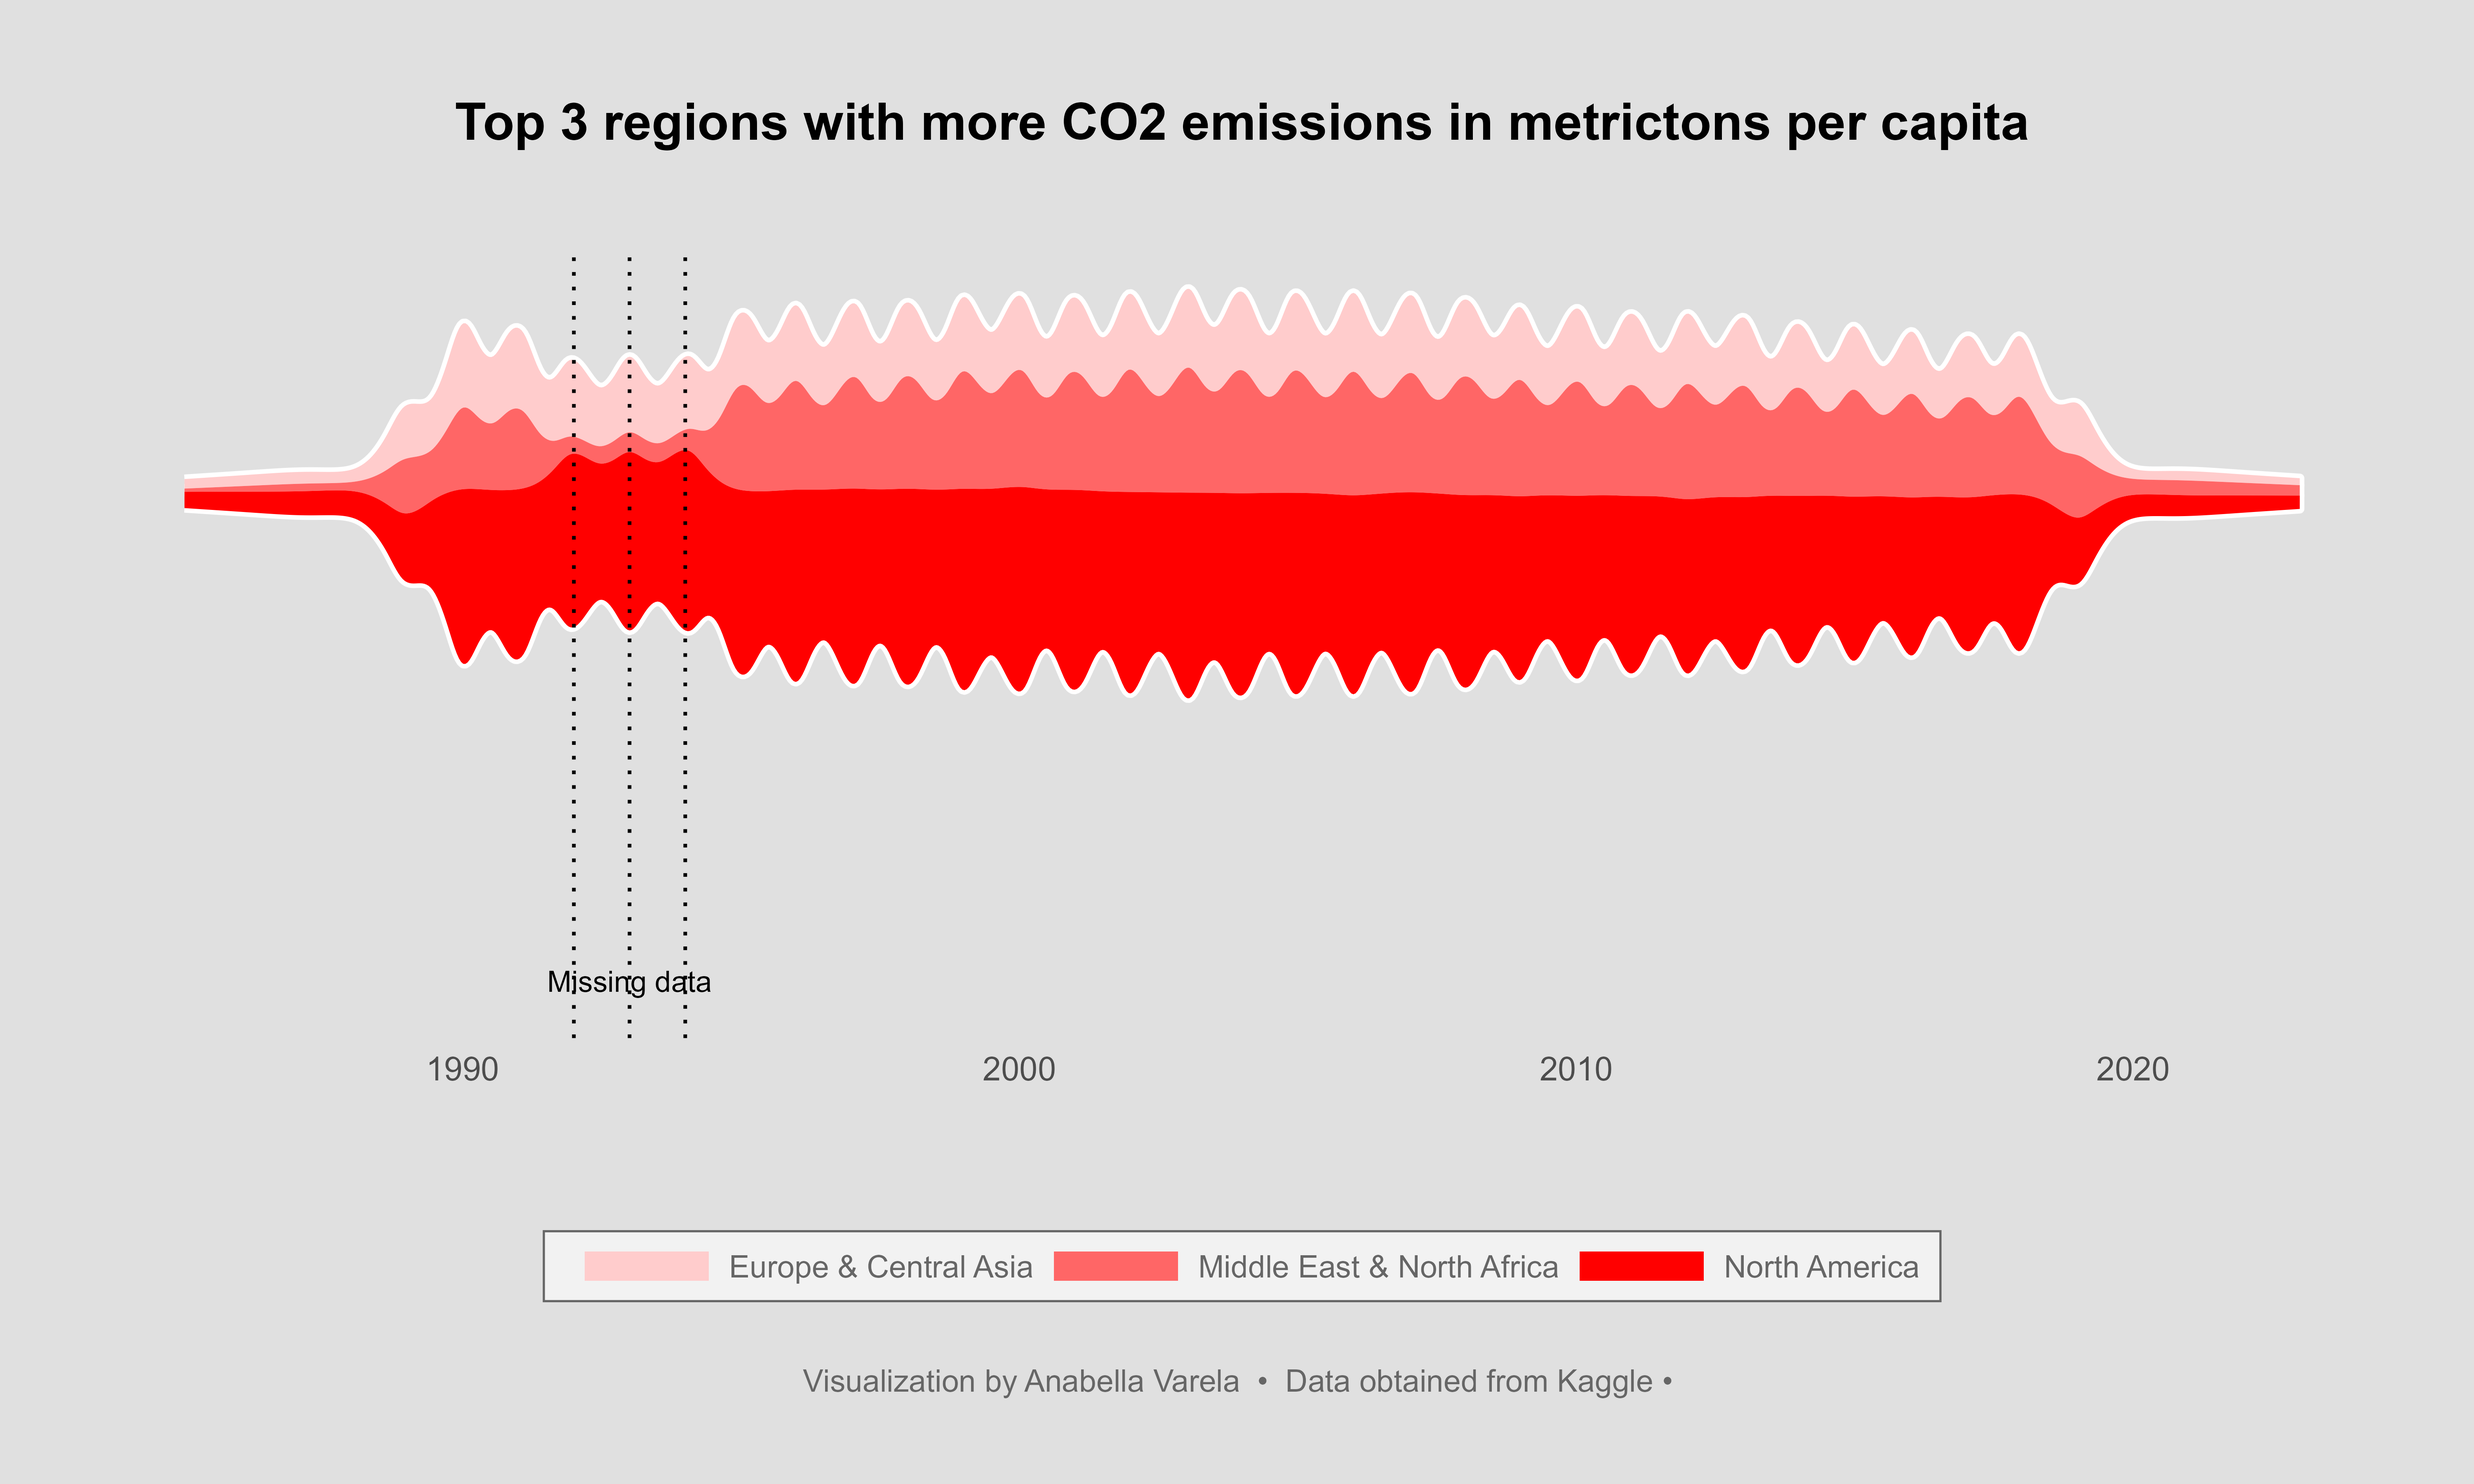
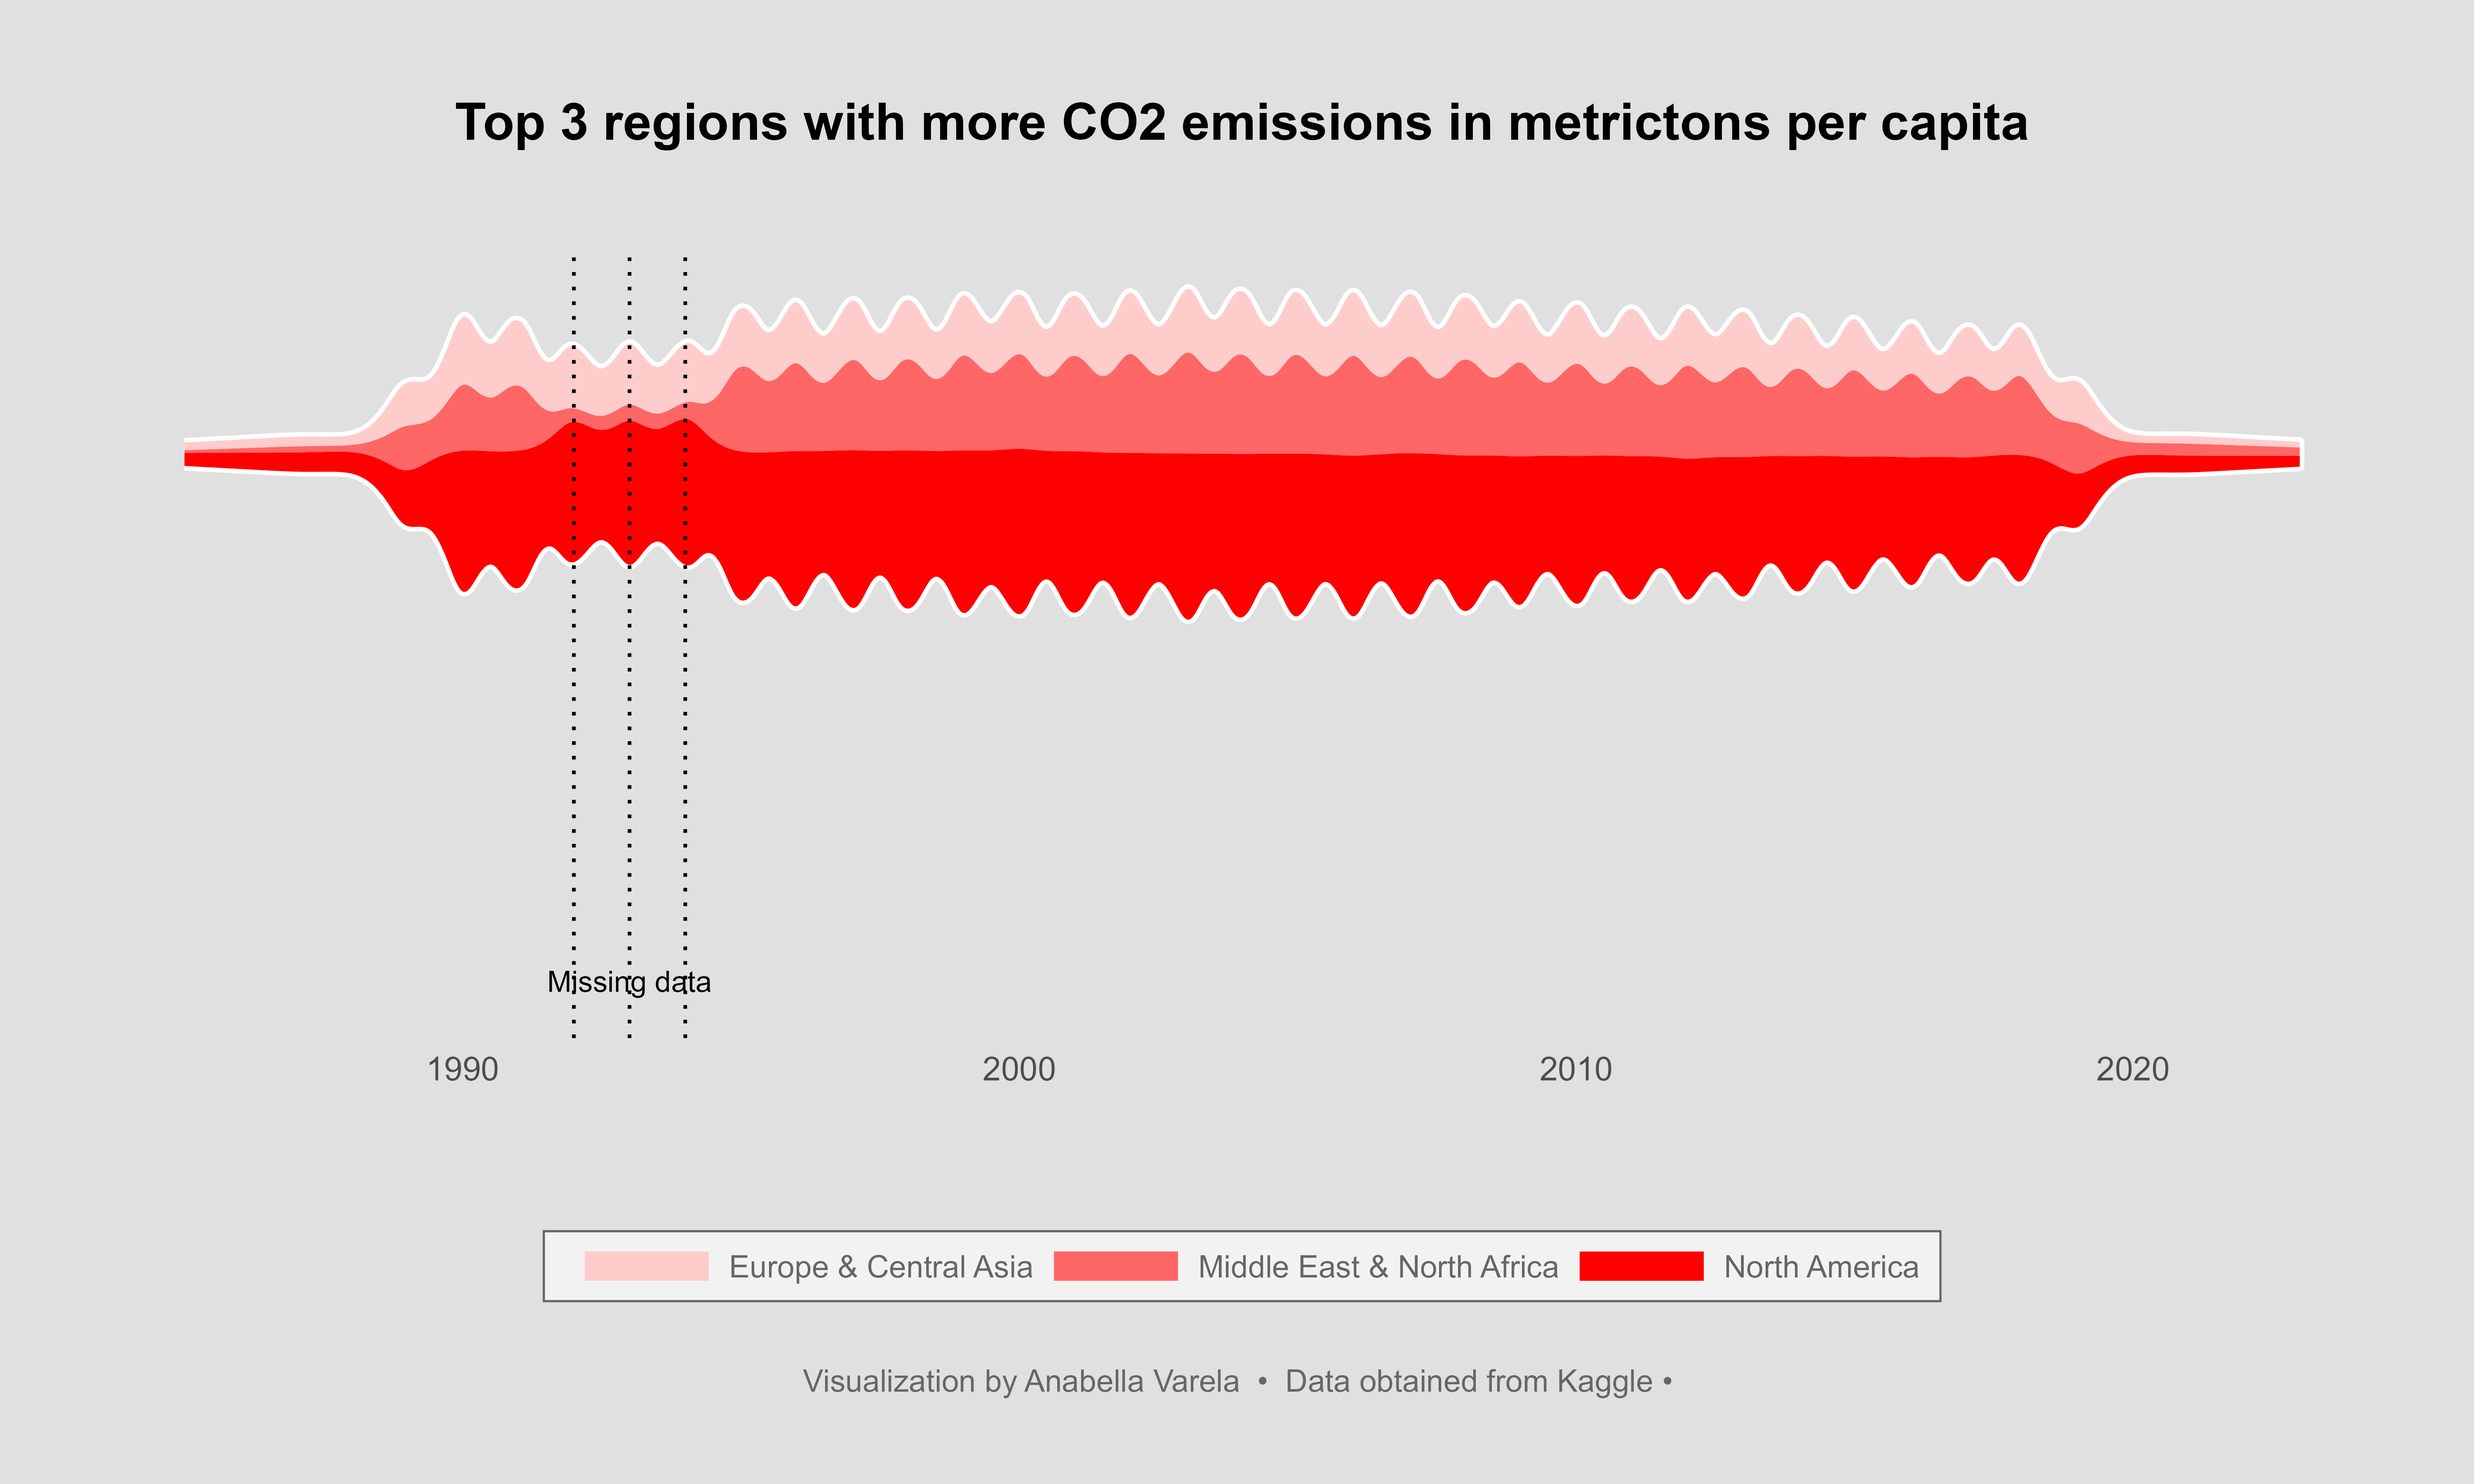
feat: readme

Changed region(s): [[0.0623, 0.1867, 0.935, 0.4667]]

diff --git a/CO2_emission/Readme.md b/CO2_emission/Readme.md
@@ -7,7 +7,7 @@
 - [Task](#task)
 - [Tools](#tools)
 - [Key Insights](#insights)
-- [Google slides presentation](#slides)
+
 
 
 
@@ -27,17 +27,17 @@ I created five figures that portrayed the trends in CO2 emissions across various
 
 
 ## Insights
--The analysis reveals a decline in the global mean CO2 emissions per capita from 4.38 metric tons in 1990 to 4.06 metric tons in 2019. 
-- Over the years, the mean and minimum emission values have displayed relative stability, while the maximum values experienced a peak in 2000 (see Figure 1).
+- The main findings from the EDA can be seen in this [Google slides presentation](https://docs.google.com/presentation/d/1v19GGn3EvbPBqgHEjUh3ap2xgAp8zH9sCHrOyp3j5o4/edit?usp=sharing)
+Figures created with this script: 
+- Figure 1: line chart
 ![Alt text](Fig1.png)
-- Significant disparities in CO2 emissions are evident among world regions and countries. Notably, the Middle East & North Africa region exhibits the highest CO2 emissions, followed by North America and Europe. Conversely, South Asia and Sub-Saharan Africa have the lowest emissions (see Figure 2).
+- Figure 2: horizontal bar chart
 ![Alt text](Fig2.png)
-- Focusing on the Middle East & North Africa region, specific attention should be directed towards Qatar, United Arab Emirates, Kuwait, and Bahrain to substantially reduce the emissions of the region (see Figure 3).
+- Figure 3: Box plot with jittered data points to see the nations that have stood out as significant contributors to elevated regional average emissions.
 ![Alt text](Fig3.png)
--Although the top three countries with the highest CO2 emissions demonstrated a decline in emissions since 2000 (see Figure 4), the trends across the top three regions are less apparent ( Figure 5).
+- Figure 4 and 5: stream graph
 ![Alt text](Fig4.png)
 ![Alt text](Fig5.png)
 
-## Slides
-More graphics can be seen in this [Google slides presentation](https://docs.google.com/presentation/d/1v19GGn3EvbPBqgHEjUh3ap2xgAp8zH9sCHrOyp3j5o4/edit?usp=sharing)
+
 
